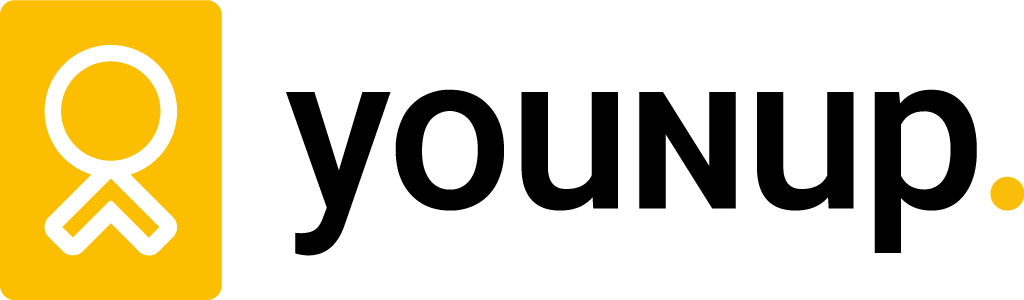
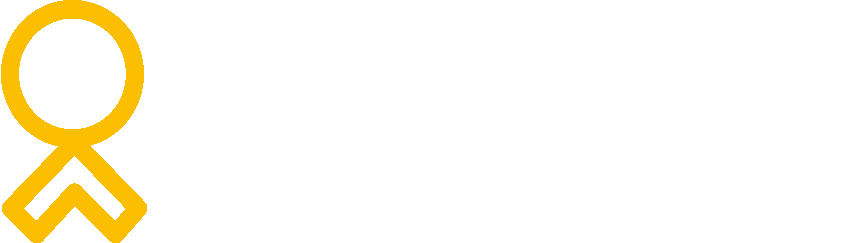
partners-fini

diff --git a/src/components/partners/index.tsx b/src/components/partners/index.tsx
@@ -75,8 +75,12 @@ export const Partners: React.FC<{
             <Typography
               variant="h2"
               align="center"
-              fontSize="40px"
-              style={{ marginBottom: "50px" }}
+              color="secondary"
+              style={{
+                marginBottom: "50px",
+                fontSize: "60px",
+                textTransform: "capitalize",
+              }}
             >
               {onlyPlatinium ? t("platinium-partners") : typePartner}
             </Typography>

diff --git a/src/pages/partners.tsx b/src/pages/partners.tsx
@@ -8,7 +8,7 @@ const PartnersPage = () => {
   const { t } = useTranslation("translation", { keyPrefix: "pages.partners" });
   return (
     <Layout>
-      <DefaultPage title={t("name")} noHero>
+      <DefaultPage title={t("name")}>
         <Partners />
       </DefaultPage>
     </Layout>

diff --git a/src/layout/theme.scss b/src/layout/theme.scss
@@ -31,6 +31,7 @@ body {
   }
   &:after {
     content: "";
+    z-index: -1000;
     position: absolute;
     top: 0;
     width: 100%;
